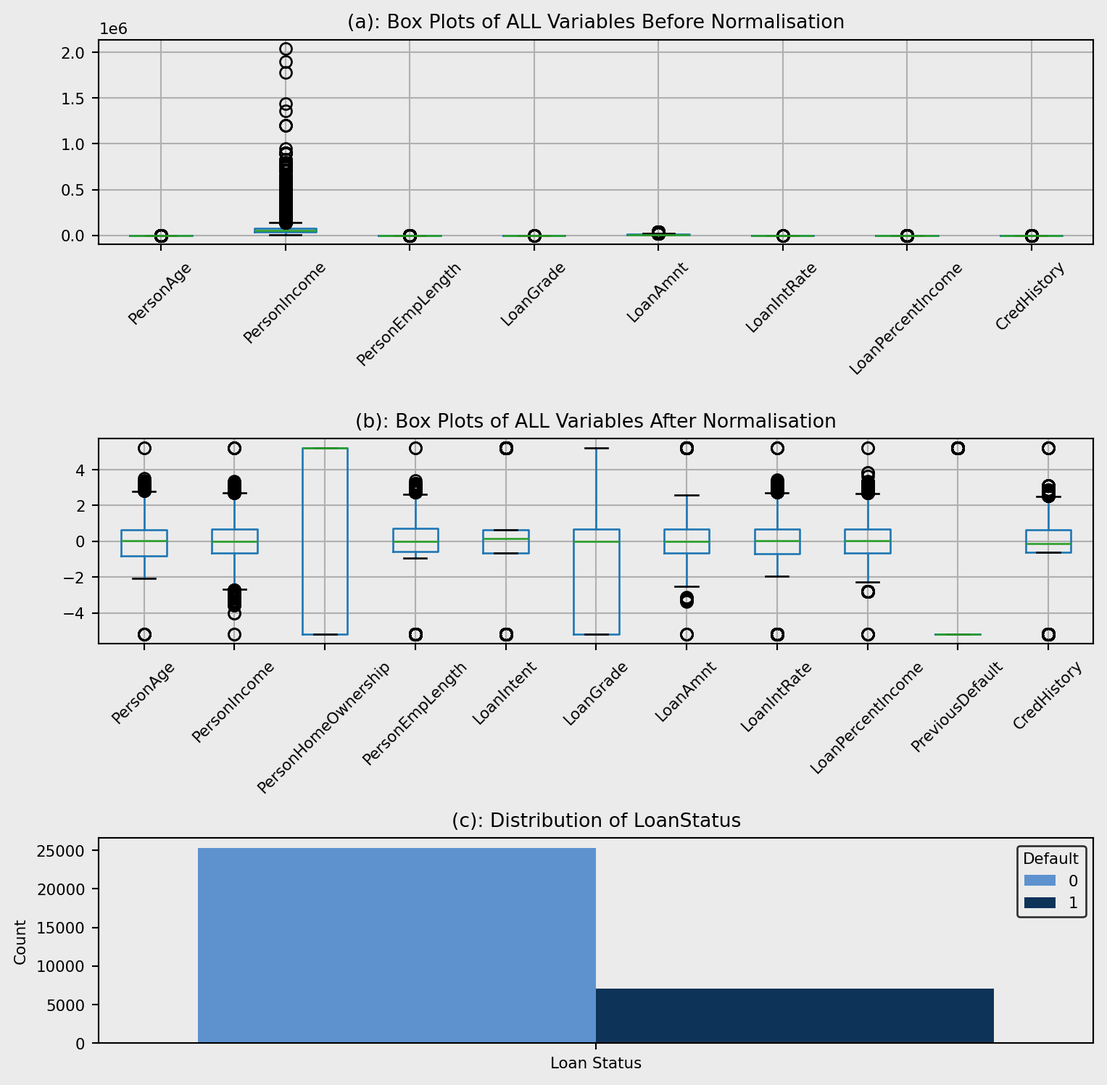
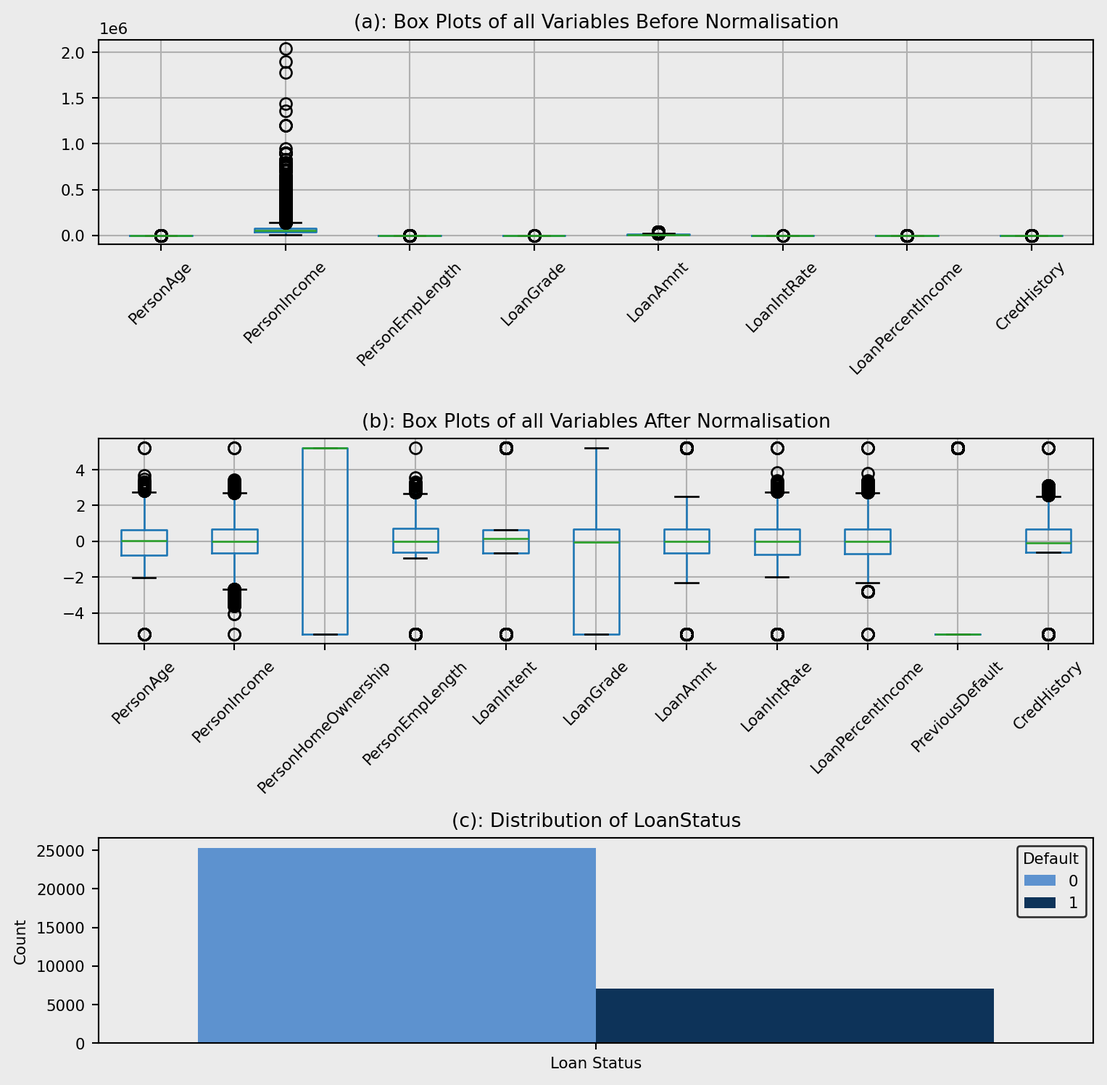
final commiting - final edits and changing titles

diff --git a/Project/Outputs/Blog.html b/Project/Outputs/Blog.html
@@ -96,10 +96,10 @@ div.csl-indent {
   <li><a href="#why-predicting-defaults-matters-more-than-ever" id="toc-why-predicting-defaults-matters-more-than-ever" class="nav-link active" data-scroll-target="#why-predicting-defaults-matters-more-than-ever"><strong>1. Why Predicting Defaults Matters More Than Ever</strong></a></li>
   <li><a href="#exploring-risk-from-patterns-to-causal-effects" id="toc-exploring-risk-from-patterns-to-causal-effects" class="nav-link" data-scroll-target="#exploring-risk-from-patterns-to-causal-effects"><strong>2. Exploring Risk: From Patterns to Causal Effects</strong></a>
   <ul class="collapse">
-  <li><a href="#preparing-the-data-and-descriptive-statistics" id="toc-preparing-the-data-and-descriptive-statistics" class="nav-link" data-scroll-target="#preparing-the-data-and-descriptive-statistics"><strong>2.1 Preparing the Data and Descriptive Statistics</strong></a></li>
-  <li><a href="#distribution-analysis" id="toc-distribution-analysis" class="nav-link" data-scroll-target="#distribution-analysis"><strong>2.2 Distribution Analysis</strong></a></li>
-  <li><a href="#correlation-and-multicollinearity-analysis" id="toc-correlation-and-multicollinearity-analysis" class="nav-link" data-scroll-target="#correlation-and-multicollinearity-analysis"><strong>2.3 Correlation and Multicollinearity Analysis</strong></a></li>
-  <li><a href="#causal-analysis" id="toc-causal-analysis" class="nav-link" data-scroll-target="#causal-analysis"><strong>2.4 Causal Analysis</strong></a></li>
+  <li><a href="#getting-to-know-the-data-patterns-quality-and-first-impressions" id="toc-getting-to-know-the-data-patterns-quality-and-first-impressions" class="nav-link" data-scroll-target="#getting-to-know-the-data-patterns-quality-and-first-impressions"><strong>2.1 Getting to Know the Data: Patterns, Quality, and First Impressions</strong></a></li>
+  <li><a href="#how-the-data-behaves-exploring-distributions" id="toc-how-the-data-behaves-exploring-distributions" class="nav-link" data-scroll-target="#how-the-data-behaves-exploring-distributions"><strong>2.2 How the Data Behaves: Exploring Distributions</strong></a></li>
+  <li><a href="#detecting-relationships-and-multicollinearity-among-variables" id="toc-detecting-relationships-and-multicollinearity-among-variables" class="nav-link" data-scroll-target="#detecting-relationships-and-multicollinearity-among-variables"><strong>2.3 Detecting Relationships and Multicollinearity Among Variables</strong></a></li>
+  <li><a href="#moving-beyond-correlation-searching-for-causality" id="toc-moving-beyond-correlation-searching-for-causality" class="nav-link" data-scroll-target="#moving-beyond-correlation-searching-for-causality"><strong>2.4 Moving Beyond Correlation: Searching for Causality</strong></a></li>
   </ul></li>
   <li><a href="#can-machines-predict-who-defaults" id="toc-can-machines-predict-who-defaults" class="nav-link" data-scroll-target="#can-machines-predict-who-defaults"><strong>3. Can Machines Predict Who Defaults?</strong></a>
   <ul class="collapse">
@@ -135,22 +135,22 @@ div.csl-indent {
 </div>
 <section id="why-predicting-defaults-matters-more-than-ever" class="level2">
 <h2 class="anchored" data-anchor-id="why-predicting-defaults-matters-more-than-ever"><strong>1. Why Predicting Defaults Matters More Than Ever</strong></h2>
-<p>Access to credit plays a big role in helping people grow businesses, buy property, or manage unexpected costs. But from the lender’s side, it comes with risk. If a borrower defaults, it can lead to major losses. That’s why being able to accurately predict who’s likely to default is so important. Traditional credit scoring has been the standard, but more recently, machine learning (ML) has shown it can do a better job at making these kinds of predictions <span class="citation" data-cites="Yang:2024">(<a href="#ref-Yang:2024" role="doc-biblioref">Yang, 2024</a>)</span>.</p>
-<p>This project uses real-world loan data to compare the performance of three models: Logistic Regression (LR), Random Forest (RF), and XGBoost. Each model is tested using accuracy, precision, recall, F1-score, and AUC (Area under the curve). These metrics help assess how well the models identify defaulters and how reliable their predictions are overall <span class="citation" data-cites="Saito:2015">(<a href="#ref-Saito:2015" role="doc-biblioref">Saito &amp; Rehmsmeier, 2015</a>)</span>.</p>
+<p>Access to credit plays a big role in helping people grow businesses, buy property, or manage unexpected costs. But from the lender’s side, it comes with risk. If a borrower defaults, it can lead to major losses. That’s why being able to accurately predict who’s likely to default is so important. Traditional credit scoring has been the standard, but more recently, machine learning (ML) has shown it can do a better job at making these types of predictions <span class="citation" data-cites="Yang:2024">(<a href="#ref-Yang:2024" role="doc-biblioref">Yang, 2024</a>)</span>.</p>
+<p>This project uses real-world loan data to compare the performance of three models: Logistic Regression (LR), Random Forest (RF), and XGBoost. Each model is tested using accuracy, precision, recall, F1-score, and area under the curve (AUC). These metrics help assess how well the models identify defaulters and how reliable their predictions are overall <span class="citation" data-cites="Saito:2015">(<a href="#ref-Saito:2015" role="doc-biblioref">Saito &amp; Rehmsmeier, 2015</a>)</span>.</p>
 <p>The project also looks at fairness across different borrower groups to see if the models are biased towards or against certain types of applicants. Combining ML with causal analysis, it aims to give a deeper, more balanced view of credit risk prediction.</p>
 <hr style="width: 150px; border: none; height: 4px; background-color:rgb(45,62,81,255); margin: auto;">
 </section>
 <section id="exploring-risk-from-patterns-to-causal-effects" class="level2">
 <h2 class="anchored" data-anchor-id="exploring-risk-from-patterns-to-causal-effects"><strong>2. Exploring Risk: From Patterns to Causal Effects</strong></h2>
 <p>Prior to conducting the analysis of credit risk, we need to understand and organise the data. For this analysis we will be using a loan defaulting dataset from Kaggle <span class="citation" data-cites="Tse:2020">(<a href="#ref-Tse:2020" role="doc-biblioref">Tse, 2020</a>)</span>, consisting of 12 variables/columns and 32580 observations, illustrated in Table 1.</p>
-<section id="preparing-the-data-and-descriptive-statistics" class="level3">
-<h3 class="anchored" data-anchor-id="preparing-the-data-and-descriptive-statistics"><strong>2.1 Preparing the Data and Descriptive Statistics</strong></h3>
+<section id="getting-to-know-the-data-patterns-quality-and-first-impressions" class="level3">
+<h3 class="anchored" data-anchor-id="getting-to-know-the-data-patterns-quality-and-first-impressions"><strong>2.1 Getting to Know the Data: Patterns, Quality, and First Impressions</strong></h3>
 <div class="tabset-margin-container"></div><div class="panel-tabset">
 <ul class="nav nav-tabs" role="tablist"><li class="nav-item" role="presentation"><a class="nav-link active" id="tabset-1-1-tab" data-bs-toggle="tab" data-bs-target="#tabset-1-1" role="tab" aria-controls="tabset-1-1" aria-selected="true" href="">2.1.1 Variable Information</a></li><li class="nav-item" role="presentation"><a class="nav-link" id="tabset-1-2-tab" data-bs-toggle="tab" data-bs-target="#tabset-1-2" role="tab" aria-controls="tabset-1-2" aria-selected="false" href="">2.1.2 Summary Statistics</a></li></ul>
 <div class="tab-content">
 <div id="tabset-1-1" class="tab-pane active" role="tabpanel" aria-labelledby="tabset-1-1-tab">
 <div class="cell" data-execution_count="7">
-<div class="cell-output cell-output-display" data-execution_count="73">
+<div class="cell-output cell-output-display" data-execution_count="29">
 <table class="dataframe table table-striped table-hover caption-top table-sm small" data-quarto-postprocess="true" data-border="1">
 <caption>Table 1: Variable Information</caption>
 <thead>
@@ -241,7 +241,7 @@ div.csl-indent {
 </div>
 <div id="tabset-1-2" class="tab-pane" role="tabpanel" aria-labelledby="tabset-1-2-tab">
 <div class="cell" data-execution_count="8">
-<div class="cell-output cell-output-display" data-execution_count="74">
+<div class="cell-output cell-output-display" data-execution_count="30">
 <table class="dataframe table table-striped table-hover caption-top table-sm small" data-quarto-postprocess="true" data-border="1">
 <caption>Table 2: Summary Statistics</caption>
 <thead>
@@ -374,11 +374,11 @@ div.csl-indent {
 <p>Table 1 and 2 display missing values and summary statistics for all variables. Only <em>PersonEmpLength</em> and <em>LoanIntRate</em> had missing values, with 887 and 3095, respectively. To maintain sample size and address skew, median imputation was used for <em>PersonEmpLength</em>, while <em>LoanIntRate</em>, highly correlated with <em>LoanGrade</em> (see Figure 5), was imputed using regression. Duplicate rows were also removed, reducing the dataset to 32415 observations. Additionally, implausible maximum values for <em>PersonAge</em> and <em>PersonEmpLength</em> (144 and 123) were treated as errors and removed. After filtering, the adjusted maximum values were 94 for <em>PersonAge</em> and 41 for <em>PersonEmpLength</em>, ensuring data integrity.</p>
 <hr style="width: 150px; border: none; height: 4px; background-color:rgb(45,62,81,255); margin: auto;">
 </section>
-<section id="distribution-analysis" class="level3">
-<h3 class="anchored" data-anchor-id="distribution-analysis"><strong>2.2 Distribution Analysis</strong></h3>
+<section id="how-the-data-behaves-exploring-distributions" class="level3">
+<h3 class="anchored" data-anchor-id="how-the-data-behaves-exploring-distributions"><strong>2.2 How the Data Behaves: Exploring Distributions</strong></h3>
 <div id="cell-fig-dist" class="cell" data-execution_count="9">
 <div class="cell-output cell-output-display">
-<div id="fig-dist" class="quarto-float quarto-figure quarto-figure-center anchored" data-fig-align="center" data-fig-pos="H">
+<div id="fig-dist" class="quarto-float quarto-figure quarto-figure-center anchored" data-fig-pos="H" data-fig-align="center">
 <figure class="quarto-float quarto-float-fig figure">
 <div aria-describedby="fig-dist-caption-0ceaefa1-69ba-4598-a22c-09a6ac19f8ca">
 <img src="Blog_files/figure-html/fig-dist-output-1.png" class="quarto-figure quarto-figure-center figure-img" data-fig-pos="H" width="762" height="764">
@@ -405,12 +405,12 @@ Figure&nbsp;2: Data Preparation Overview
 </div>
 </div>
 </div>
-<p>Figure 2(a) shows that the data isn’t scaled proportionally, therefore we need to apply a scaling technique. Due to the skewness of all the variables quantile transformation was deployed, normalised data is shown in Figure 2 (b). The plot shows outliers, however there is no reason for these to be errors meaning they will not be removed. For example, the reason for outliers in <em>PersonIncome</em> is due to people earning considerably more than average.</p>
+<p>Figure 2(a) shows that the data isn’t scaled proportionally, therefore we need to apply a scaling technique. Due to the skewness of all the variables quantile transformation was deployed with normalised data shown in Figure 2 (b). The plot shows outliers, however there is no reason for these to be errors meaning they will not be removed. For example, the reason for outliers in <em>PersonIncome</em> is due to people earning considerably more than average.</p>
 <p>Figure 2(c) demonstrates the distribution of <em>LoanStatus</em> within the dataset. This can cause large impacts on the ML models deployed in the analysis, leading to skewed performance metrics as the models will predict the majority class with high accuracy but the minority class with lower accuracy. To circumvent this issue, I implemented class weighting within my ML models.</p>
 <hr style="width: 150px; border: none; height: 4px; background-color:rgb(45,62,81,255); margin: auto;">
 </section>
-<section id="correlation-and-multicollinearity-analysis" class="level3">
-<h3 class="anchored" data-anchor-id="correlation-and-multicollinearity-analysis"><strong>2.3 Correlation and Multicollinearity Analysis</strong></h3>
+<section id="detecting-relationships-and-multicollinearity-among-variables" class="level3">
+<h3 class="anchored" data-anchor-id="detecting-relationships-and-multicollinearity-among-variables"><strong>2.3 Detecting Relationships and Multicollinearity Among Variables</strong></h3>
 <div id="cell-fig-Corr-Multi" class="cell" data-execution_count="12">
 <div class="cell-output cell-output-display">
 <div id="fig-corr-multi" class="quarto-float quarto-figure quarto-figure-center anchored">
@@ -425,13 +425,13 @@ Figure&nbsp;3: Correlation and Multicollinearity Analysis
 </div>
 </div>
 </div>
-<p>Figure 3(a) shows a correlation plot quantifying the relationships between the variables and the target <em>LoanStatus</em>. <em>LoanGrade</em> and <em>LoanIntRate</em> have a high correlation coefficient (r = 0.95), indicating that they are highly correlated. Also, a similar relationship is shown between <em>PersonAge</em> and <em>CredHistory</em> (r = 0.81). These patterns are expected, older borrowers tend to have longer credit histories, and higher loan grades are typically associated with higher interest rates. While such correlations suggest potential multicollinearity, further assessment using variance inflation factors (VIF) is required.</p>
+<p>Figure 3(a) shows a correlation plot quantifying the relationships between the variables and the target <em>LoanStatus</em>. <em>LoanGrade</em> and <em>LoanIntRate</em> have a high correlation coefficient (r = 0.95), indicating that they are highly correlated. Also, a similar relationship is shown between <em>PersonAge</em> and <em>CredHistory</em> (r = 0.81). These patterns are expected, older borrowers tend to have longer credit histories, and higher loan grades are typically associated with higher interest rates. While these correlations suggest potential multicollinearity, further assessment using variance inflation factors (VIF) is required.</p>
 <p>VIF values for all the variables are shown in Figure 3(b). In contrast to Figure 3(a), <em>LoanGrade</em>, <em>LoanIntRate</em>, <em>PersonAge</em>, and <em>CredHistory</em> have low VIF values, indicating low levels of multicollinearity. However, <em>LoanAmnt</em>, <em>LoanPercentIncome</em> and <em>PersonIncome</em> have VIF values greater than 10 which indicates multicollinearity and actions need to be taken to ensure they don’t affect the models. For the logistic regression, L1 and L2 regularisation was deployed to reduce the effects of multicollinearity. Other models are tree-based and handle multicollinearity, therefore no further processing is needed.</p>
 <hr style="width: 150px; border: none; height: 4px; background-color:rgb(45,62,81,255); margin: auto;">
 </section>
-<section id="causal-analysis" class="level3">
-<h3 class="anchored" data-anchor-id="causal-analysis"><strong>2.4 Causal Analysis</strong></h3>
-<p>This section explores the heterogeneous impact of <em>PreviousDefault</em> on the likelihood of defaulting again, using a causal forest framework. <em>PreviousDefault</em> was used within this analysis as <span class="citation" data-cites="Hand_D_J_Henley_W_E:1997">Hand, D. J., &amp; Henley, W. E. (<a href="#ref-Hand_D_J_Henley_W_E:1997" role="doc-biblioref">1997</a>)</span> observed past defaulting status has a strong association with future loan defaults. By estimating Conditional Average Treatment Effects (CATEs), we can observe how the effect of previous default varies across individual borrower profiles.</p>
+<section id="moving-beyond-correlation-searching-for-causality" class="level3">
+<h3 class="anchored" data-anchor-id="moving-beyond-correlation-searching-for-causality"><strong>2.4 Moving Beyond Correlation: Searching for Causality</strong></h3>
+<p>This section explores the heterogeneous impact of <em>PreviousDefault</em> on the likelihood of defaulting again, using a causal forest framework. <em>PreviousDefault</em> was used within this analysis as <span class="citation" data-cites="Hand_D_J_Henley_W_E:1997">Hand, D. J., &amp; Henley, W. E. (<a href="#ref-Hand_D_J_Henley_W_E:1997" role="doc-biblioref">1997</a>)</span> observed past defaulting status has a strong association with future loan defaults. By estimating conditional average treatment effects (CATEs), we can observe how the effect of previous default varies across individual borrower profiles.</p>
 <div id="cell-fig-causal_a" class="cell" data-execution_count="13">
 <div class="cell-output cell-output-display">
 <div id="fig-causal_a" class="quarto-float quarto-figure quarto-figure-center anchored">
@@ -446,7 +446,7 @@ Figure&nbsp;4: Estimated Treatment Effects (CATE) for Previous Default
 </div>
 </div>
 </div>
-<p>Figure 4 shows estimated CATEs, revealing a negatively-skewed distribution with most values centred near zero. This suggests that, for the majority of borrowers, previous default status has a marginal effect on the likelihood of defaulting again. However, a distinct subgroup exhibits significantly higher CATEs, indicating a substantially increased default risk following a previous default. These individuals may represent vulnerable borrowers, for whom financial distress is a strong predictor of future behaviour. The long right tail emphasizes the importance of heterogeneity in treatment effects and justifies the use of a causal forest over average-effect models.</p>
+<p>Figure 4 shows estimated CATEs, revealing a negatively-skewed distribution with most values centred near zero. This suggests that, for the majority of borrowers, previous default status has a marginal effect on the likelihood of defaulting again. However, a distinct subgroup exhibits significantly higher CATEs, indicating a substantially increased default risk following a previous default. These individuals may represent vulnerable borrowers, for whom financial distress is a strong predictor of future behaviour. The long right tail emphasises the importance of heterogeneity in treatment effects and justifies the use of a causal forest over average-effect models.</p>
 <hr style="width: 150px; border: none; height: 4px; background-color:rgb(45,62,81,255); margin: auto;">
 </section>
 </section>
@@ -469,15 +469,15 @@ Figure&nbsp;4: Estimated Treatment Effects (CATE) for Previous Default
 <img src="Blog_files/figure-html/fig-lr-vis-output-1.png" width="717" height="590" class="figure-img">
 </div>
 <figcaption class="quarto-float-caption-bottom quarto-float-caption quarto-float-fig" id="fig-lr-vis-caption-0ceaefa1-69ba-4598-a22c-09a6ac19f8ca">
-Figure&nbsp;5: Logistic Regression Model Visualizations
+Figure&nbsp;5: Logistic Regression Model Visualisations
 </figcaption>
 </figure>
 </div>
 </div>
 </div>
 <p>Figure 5(a) shows the ROC curve for the LR model, an indication of the trade-off between sensitivity and specificity of the model. The model achieved an AUC score of 0.841, regarded as considerable <span class="citation" data-cites="Corbacioglu:2023">(<a href="#ref-Corbacioglu:2023" role="doc-biblioref">Çorbacıoğlu &amp; Aksel, 2023</a>)</span>, indicating solid predictive performance when distinguishing between positive outcomes. The model’s curve lies well above the diagonal reference line (AUC = 0.5), which represents random classification, demonstrating its predictive applications. However, the graph shows room for improvement due to the true positive rate (TPR) remaining below 0.9.</p>
-<p>Figure 5(b) visualises the error within the classification model. The matrix reveals that the model correctly identified 3756 non-default cases (true negatives) and 1128 default cases (true positives), demonstrating its ability to capture both classes effectively. However, 1293 non-default cases were misclassified as defaults (false positives), while 305 defaulters were missed (false negatives), which could result in financial loss for lenders.</p>
-<p>Figure 5(c) shows the odds ratios for the LR model. The odds ratio indicates the increase in the risk of defaulting for a one-unit increase in that variable and allows for an easy interpretation of the relationships between the individual features and credit risk. The results indicate that <em>LoanIntRate</em> and <em>LoanPercentIncome</em> have the strongest positive associations with default, with odds ratios of 2.788 and 2.244, respectively. This suggests that as interest rates or the proportion of income allocated to the loan increases, the likelihood of default rises significantly. Conversely, <em>PersonIncome</em> has an odds ratio of 0.601, indicates that higher income lowers default probability, consistent with economic expectations.</p>
+<p>Figure 5(b) visualises the error within the classification model. The matrix reveals that the model correctly identified 3764 non-default cases (true negatives) and 1128 default cases (true positives), demonstrating its ability to capture both classes effectively. However, 1285 non-default cases were misclassified as defaults (false positives), while 305 defaulters were missed (false negatives), which could result in financial loss for lenders.</p>
+<p>Figure 5(c) shows the odds ratios for the LR model. The odds ratio indicates the increase in the risk of defaulting for a one-unit increase in that variable and allows for an easy interpretation of the relationships between the individual features and credit risk. The results indicate that <em>LoanIntRate</em> and <em>LoanPercentIncome</em> have the strongest positive associations with default, with odds ratios of 2.766 and 2.432, respectively. This suggests that as interest rates or the proportion of income allocated to the loan increases, the likelihood of default rises significantly. Conversely, <em>PersonIncome</em> has an odds ratio of 0.653, indicating that higher income lowers default probability, consistent with economic expectations.</p>
 </div>
 <div id="tabset-2-2" class="tab-pane" role="tabpanel" aria-labelledby="tabset-2-2-tab">
 <p>The second model that was developed and compared with the LR model was an RF, trained on all the standard variables, as they have been shown to have superior performance than LR models <span class="citation" data-cites="Couronne:2018">(<a href="#ref-Couronne:2018" role="doc-biblioref">Couronné et al., 2018</a>)</span>.</p>
@@ -489,14 +489,14 @@ Figure&nbsp;5: Logistic Regression Model Visualizations
 <img src="Blog_files/figure-html/fig-rf-vis-output-1.png" width="717" height="565" class="figure-img">
 </div>
 <figcaption class="quarto-float-caption-bottom quarto-float-caption quarto-float-fig" id="fig-rf-vis-caption-0ceaefa1-69ba-4598-a22c-09a6ac19f8ca">
-Figure&nbsp;6: Random Forest Model Visualizations
+Figure&nbsp;6: Random Forest Model Visualisations
 </figcaption>
 </figure>
 </div>
 </div>
 </div>
-<p>The ROC curve, illustrated in Figure 6(a), showcases its improved classification ability in distinguishing between cases and can be compared to LRs. The model achieved a excellent AUC of 0.928 <span class="citation" data-cites="Corbacioglu:2023">(<a href="#ref-Corbacioglu:2023" role="doc-biblioref">Çorbacıoğlu &amp; Aksel, 2023</a>)</span>, indicating strong predictive capability and shows that more complex models have the potential to improve credit risk prediction, however highly accurate performance may indicate overfitting.</p>
-<p>The confusion matrix (Figure 6(b)) provides a detailed comparison of actual versus predicted default status. In this case, the model correctly predicted non-default for 4990 instances (True Negatives), and correctly identified defaulting for 991 instances (True Positives). However, there were 59 false positives, where the model incorrectly predicted defaulting when the actual class was non-default, and 442 false negatives. This confusion matrix reiterates the improved performance from the LR as the incorrect classification instances have decreased.</p>
+<p>The ROC curve, illustrated in Figure 6(a), showcases its improved classification ability in distinguishing between cases and can be compared to LRs. The model achieved a excellent AUC of 0.927 <span class="citation" data-cites="Corbacioglu:2023">(<a href="#ref-Corbacioglu:2023" role="doc-biblioref">Çorbacıoğlu &amp; Aksel, 2023</a>)</span>, indicating strong predictive capability and shows that more complex models have the potential to improve credit risk prediction, however highly accurate performance may indicate overfitting.</p>
+<p>The confusion matrix (Figure 6(b)) provides a detailed comparison of actual versus predicted default status. In this case, the model correctly predicted non-default for 4996 instances (True Negatives), and correctly identified defaulting for 988 instances (True Positives). However, there were 53 false positives, where the model incorrectly predicted defaulting when the actual class was non-default, and 445 false negatives. This confusion matrix reiterates the improved performance from the LR as the incorrect classification instances have decreased.</p>
 <p>Figure 6(c) demonstrates the most influential features when predicting credit risk by visualising feature importance calculated using mean decrease in accuracy. <em>LoanIntRate</em> is the most important feature suggesting that the proportion of income allocated to a loan has the strongest impact on the model’s predictions, supporting the conclusions from the LR which ranked it second. <em>LoanPercentIncome</em> and <em>PersonIncome</em> are also shown to be within the top 3 most important features as they are in the LR model. Conversely, to the LR, the RF shows <em>LoanGrade</em> to have high importance whereas Figure 8 shows it to have very little impact on credit risk for the LR model, potentially attributed to the differences in model architecture.</p>
 </div>
 <div id="tabset-2-3" class="tab-pane" role="tabpanel" aria-labelledby="tabset-2-3-tab">
@@ -509,14 +509,14 @@ Figure&nbsp;6: Random Forest Model Visualizations
 <img src="Blog_files/figure-html/fig-xgb-vis-output-1.png" width="717" height="562" class="figure-img">
 </div>
 <figcaption class="quarto-float-caption-bottom quarto-float-caption quarto-float-fig" id="fig-xgb-vis-caption-0ceaefa1-69ba-4598-a22c-09a6ac19f8ca">
-Figure&nbsp;7: XGBoost Model Visualizations
+Figure&nbsp;7: XGBoost Model Visualisations
 </figcaption>
 </figure>
 </div>
 </div>
 </div>
-<p>Figure 7(a) visualises the performance of the XGBoost in classifying positive outcomes. This model achieves a slightly higher AUC score than the RF (AUC = 0.944), demonstrating excellent predictive performance <span class="citation" data-cites="Corbacioglu:2023">(<a href="#ref-Corbacioglu:2023" role="doc-biblioref">Çorbacıoğlu &amp; Aksel, 2023</a>)</span>. Its built-in regularisation, max_depth, min_child_weight, and L1/L2 regularisation, reduces the risk of overfitting despite its complexity.</p>
-<p>Figure 7(b) reiterates the increased performance of the XGBoost. XGBoost predicts 36 more true positives than the RF, indicating better sensitivity avoiding potentially revenue losses due to defaulting. The model also has 3 fewer false positives, meaning it incorrectly predicts fewer non-defaulters as defaulters.</p>
+<p>Figure 7(a) visualises the performance of the XGBoost in classifying positive outcomes. This model achieves a slightly higher AUC score than the RF (AUC = 0.943), demonstrating excellent predictive performance <span class="citation" data-cites="Corbacioglu:2023">(<a href="#ref-Corbacioglu:2023" role="doc-biblioref">Çorbacıoğlu &amp; Aksel, 2023</a>)</span>. Its built-in regularisation, max_depth, min_child_weight, and L1/L2 regularisation, reduces the risk of overfitting despite its complexity.</p>
+<p>Figure 7(b) reiterates the increased performance of the XGBoost. XGBoost predicts 41 more true positives than the RF, indicating better sensitivity avoiding potentially revenue losses due to defaulting. The model also has 9 fewer false positives, meaning it incorrectly predicts fewer non-defaulters as defaulters.</p>
 <p>Figure 7(c) contradicts the other models (LR and RF), as these models predicted <em>LoanPercentIncome</em> to have less of an impact on the predictions than the XGBoost model. However, similar to the RF and LR model, the XGBoost placed high importance on <em>PersonHomeOwnership</em> reinforcing the notion that the proportion of income allocated to a loan significantly impacts the risk of defaulting. However, <em>LoanGrade</em> ranks higher than in the RF and LR, indicating that home ownership status may play a larger role in how XGBoosts evaluates credit risk.</p>
 </div>
 </div>
@@ -539,16 +539,16 @@ Figure&nbsp;8: Model Evaluation and Comparisons
 </div>
 </div>
 </div>
-<p>Figure 8(a) shows that XGBoost (0.928) achieves the highest accuracy, closely followed by Random Forest (0.923), while Logistic Regression lags (0.753). However, accuracy alone can be misleading in imbalanced classification tasks such as credit scoring, where minimizing the cost of misclassifying defaulters is critical (Hand &amp; Henley, 1997)</p>
-<p>Figure 8(b) highlights XGBoost’s overall strength, with the highest AUC (0.944), strong sensitivity (0.717), and F1 score (0.814). RF performs similarly, though with slightly lower recall. LR underperforms across most metrics except sensitivity (0.787) however, precision (0.466) is lacking reducing the applications of this model. Also LR has, the highest log loss (8.886), suggesting poorer probability calibration.</p>
-<p>In credit risk analysis, recall is critical. Missing a default is costlier than a false alarm (Hand &amp; Henley, 1997). While LR has competitive recall, XGBoost offers a better balance between recall, precision, and overall performance.</p>
-<p>Table 8(c) shows LR focuses on income-related variables, suggesting linear assumptions. Tree-based models prioritize features like LoanGrade and HomeOwnership, capturing non-linear interactions more effectively <span class="citation" data-cites="Zhou:2002">(<a href="#ref-Zhou:2002" role="doc-biblioref">Zhou et al., 2002</a>)</span>, making them more suited to complex credit risk tasks.</p>
+<p>Figure 8(a) shows that XGBoost (0.928) achieves the highest accuracy, closely followed by RF (0.923), while LR lags behind (0.755). However, accuracy alone can be misleading in imbalanced classification tasks such as credit scoring, where minimising the cost of misclassifying defaulters is critical <span class="citation" data-cites="Hand_D_J_Henley_W_E:1997">(<a href="#ref-Hand_D_J_Henley_W_E:1997" role="doc-biblioref">Hand, D. J., &amp; Henley, W. E., 1997</a>)</span>.</p>
+<p>Figure 8(b) highlights XGBoost’s overall strength, with the highest AUC (0.943), strong sensitivity (0.718), and F1 score (0.815). RF performs similarly, though with slightly lower recall. LR underperforms across most metrics except sensitivity (0.787) however, precision (0.467) is lacking reducing the applications of this model. Also, LR has the highest log loss (8.841), suggesting poorer probability calibration.</p>
+<p>In credit risk analysis, recall is critical. Missing a default is costlier than a false alarm <span class="citation" data-cites="Hand_D_J_Henley_W_E:1997">(<a href="#ref-Hand_D_J_Henley_W_E:1997" role="doc-biblioref">Hand, D. J., &amp; Henley, W. E., 1997</a>)</span>. While LR has competitive recall, XGBoost offers a better balance between recall, precision, and overall performance.</p>
+<p>Table 8(c) shows LR focuses on income-related variables, suggesting linear assumptions. Tree-based models prioritise features like LoanGrade and HomeOwnership, capturing non-linear interactions more effectively <span class="citation" data-cites="Zhou:2002">(<a href="#ref-Zhou:2002" role="doc-biblioref">Zhou et al., 2002</a>)</span>, making them more suited to complex credit risk tasks.</p>
 <hr style="width: 150px; border: none; height: 4px; background-color:rgb(45,62,81,255); margin: auto;">
 </section>
 <section id="who-gets-a-fair-deal-auditing-xgboosts-default-predictions" class="level3">
 <h3 class="anchored" data-anchor-id="who-gets-a-fair-deal-auditing-xgboosts-default-predictions"><strong>3.3 Who Gets a Fair Deal? Auditing XGBoost’s Default Predictions</strong></h3>
 <div class="cell" data-execution_count="22">
-<div class="cell-output cell-output-display" data-execution_count="88">
+<div class="cell-output cell-output-display" data-execution_count="44">
 <table class="dataframe caption-top table table-sm table-striped small" data-quarto-postprocess="true" data-border="1">
 <caption>Table 3: Fairness Audit</caption>
 <thead>
@@ -562,33 +562,33 @@ Figure&nbsp;8: Model Evaluation and Comparisons
 <tbody>
 <tr class="odd">
 <td>Low Income</td>
-<td>0.913</td>
-<td>0.765</td>
-<td>0.845</td>
+<td>0.916</td>
+<td>0.768</td>
+<td>0.850</td>
 </tr>
 <tr class="even">
 <td>High Income</td>
-<td>0.943</td>
-<td>0.605</td>
-<td>0.737</td>
+<td>0.940</td>
+<td>0.602</td>
+<td>0.728</td>
 </tr>
 <tr class="odd">
 <td>Young (&lt; median age)</td>
-<td>0.928</td>
-<td>0.741</td>
-<td>0.831</td>
+<td>0.927</td>
+<td>0.735</td>
+<td>0.828</td>
 </tr>
 <tr class="even">
 <td>Old (≥ median age)</td>
-<td>0.928</td>
-<td>0.693</td>
-<td>0.798</td>
+<td>0.929</td>
+<td>0.701</td>
+<td>0.802</td>
 </tr>
 <tr class="odd">
 <td>Renters</td>
 <td>0.929</td>
-<td>0.812</td>
-<td>0.878</td>
+<td>0.811</td>
+<td>0.877</td>
 </tr>
 <tr class="even">
 <td>Homeowners</td>
@@ -598,30 +598,30 @@ Figure&nbsp;8: Model Evaluation and Comparisons
 </tr>
 <tr class="odd">
 <td>Mortgage</td>
-<td>0.914</td>
-<td>0.420</td>
-<td>0.566</td>
+<td>0.916</td>
+<td>0.429</td>
+<td>0.575</td>
 </tr>
 </tbody>
 </table>
 </div>
 </div>
-<p>The fairness audit of the XGBoost model highlights clear differences in recall across borrower subgroups. While overall accuracy remains high, recall is substantially lower for high-income (0.605) and mortgage (0.42) groups, suggesting the model is less effective at flagging defaulters in these categories. In contrast, renters (0.812) and homeowners (0.839) benefit from stronger sensitivity. These gaps may reflect imbalanced data or overlapping traits that obscure risk signals. For instance, mortgagers may combine stable income with high debt, complicating predictions. High-income defaulters may also be underrepresented, reducing model focus. Addressing these differences through subgroup-aware tuning or fairness constraints can improve equity in credit assessments.</p>
+<p>The fairness audit of the XGBoost model highlights clear differences in recall across borrower subgroups. While overall accuracy remains high, recall is substantially lower for high-income (0.602) and mortgage (0.429) groups, suggesting the model is less effective at flagging defaulters in these categories. In contrast, renters (0.811) and homeowners (0.839) benefit from stronger sensitivity. These gaps may reflect imbalanced data or overlapping traits that obscure risk signals. For instance, mortgagers may combine stable income with high debt, complicating predictions. High-income defaulters may also be underrepresented, reducing model focus. Addressing these differences through subgroup-aware tuning or fairness constraints can improve equity in credit assessments.</p>
 <hr style="width: 150px; border: none; height: 4px; background-color:rgb(45,62,81,255); margin: auto;">
 </section>
 <section id="from-models-to-meaning-what-we-can-learn" class="level3">
 <h3 class="anchored" data-anchor-id="from-models-to-meaning-what-we-can-learn"><strong>3.4 From Models to Meaning: What We Can Learn</strong></h3>
-<p>This project showed that ensemble learning models like XGBoost and Random Forest can significantly improve how we assess credit risk. Unlike traditional approaches, these models pick up on complex, non-linear relationships in financial data and handle imbalanced datasets much better <span class="citation" data-cites="Chopra:2018">(<a href="#ref-Chopra:2018" role="doc-biblioref">Chopra &amp; Bhilare, 2018</a>)</span>. Features such as <em>LoanGrade</em>, <em>LoanPercentIncome</em>, and <em>PersonIncome</em> emerged as key predictors, helping lenders make more accurate decisions, reduce misclassifications, and ultimately lower default rates.</p>
+<p>This project showed that ensemble learning models like XGBoost and RF can significantly improve how we assess credit risk. Unlike traditional approaches, these models pick up on complex, non-linear relationships in financial data and handle imbalanced datasets much better <span class="citation" data-cites="Chopra:2018">(<a href="#ref-Chopra:2018" role="doc-biblioref">Chopra &amp; Bhilare, 2018</a>)</span>. Features such as <em>LoanGrade</em>, <em>LoanPercentIncome</em>, and <em>PersonIncome</em> emerged as key predictors, helping lenders make more accurate decisions, reduce misclassifications, and ultimately lower default rates.</p>
 <p>However, there are trade-offs. These models are harder to interpret, which can be a challenge in regulated sectors where transparency is important <span class="citation" data-cites="Rudin:2019">(<a href="#ref-Rudin:2019" role="doc-biblioref">Rudin, 2019</a>)</span>. They also demand more computational power, which might limit access for smaller institutions <span class="citation" data-cites="Lei:2025">(<a href="#ref-Lei:2025" role="doc-biblioref">Lei, 2025</a>)</span>. Without proper tuning, they can overfit on skewed data <span class="citation" data-cites="Cheng:2021">(<a href="#ref-Cheng:2021" role="doc-biblioref">Cheng et al., 2021</a>)</span>. There’s also the risk of reinforcing biases present in the training data, potentially leading to unfair outcomes in lending <span class="citation" data-cites="Shah:2025">(<a href="#ref-Shah:2025" role="doc-biblioref">Shah &amp; Davis, 2025</a>)</span>. Moving forward, improving explainability, tuning, and fairness will be essential for making these models more practical and trustworthy.</p>
 <hr style="width: 150px; border: none; height: 4px; background-color:rgb(45,62,81,255); margin: auto;">
 </section>
 </section>
 <section id="key-takeaways" class="level2">
 <h2 class="anchored" data-anchor-id="key-takeaways"><strong>4. Key Takeaways</strong></h2>
-<p>This project compared the performance of Logistic Regression, Random Forest, and XGBoost in predicting loan defaults. XGBoost came out on top across all metrics, with the highest accuracy (0.928), AUC (0.944), and F1-score (0.814), showing its strength in capturing complex, non-linear patterns in borrower behavior. Random Forest also performed well, though its slightly lower sensitivity suggests it might miss a few more defaulters. Logistic Regression trailed behind, limited by its simpler, linear structure.</p>
+<p>This project compared the performance of LR, RF, and XGBoost in predicting loan defaults. XGBoost came out on top across all metrics, with the highest accuracy (0.928), AUC (0.943), and F1-score (0.815), showing its strength in capturing complex, non-linear patterns in borrower behavior. RF also performed well, though its slightly lower sensitivity suggests it might miss a few more defaulters. LR trailed behind, limited by its simpler, linear structure.</p>
 <p>When looking at what each model focused on, LR leaned heavily on income-based features like PersonIncome and LoanPercentIncome. In contrast, RF and XGBoost picked up broader signals, giving more weight to LoanGrade and PersonHomeOwnership. This suggests that ensemble models offer a more rounded view of credit risk.</p>
-<p>To explore how default risk changes across different borrowers, a causal forest was used to estimate Conditional Average Treatment Effects (CATEs) for PreviousDefault. While most estimates were close to zero, a clear subgroup showed much higher risk, highlighting the value of causal inference in spotting patterns that average models can miss.</p>
-<p>Even the best models have their blind spots. A fairness audit revealed that XGBoost performed unevenly across borrower groups, flagging fewer defaults for some demographics. This reinforces why fairness checks should be built into credit decision systems, to make sure everyone gets a fair shot</p>
+<p>To explore how default risk changes across different borrowers, a causal forest was used to estimate conditional average treatment effects (CATEs) for PreviousDefault. While most estimates were close to zero, a clear subgroup showed much higher risk, highlighting the value of causal inference in spotting patterns that average models can miss.</p>
+<p>Even the best models have their blind spots. A fairness audit revealed that XGBoost performed unevenly across borrower groups, flagging fewer defaults for some demographics. This reinforces why fairness checks should be built into credit decision systems, to make sure everyone gets a fair shot.</p>
 <!-- Back to Top Button -->
 <button onclick="topFunction()" id="backToTopBtn" title="Go to top">
 ↑ Top

diff --git a/README.md b/README.md
@@ -25,18 +25,20 @@ The libraries used in this project are:
 ├── Blog.txt                  # Contains GitHub repo and blog post link
 
 ├── Project/                  # All project content
-│   ├── Blog.qmd              # Main Quarto source file
-│   ├── _quarto.yml           # Quarto config file
-│   ├── _publish.yml          # Quarto publishing config
-│   ├── .gitignore            # Files to ignore in Git
-│   ├── styles.css             # CSS styles for the blog
+│   ├── Blog.qmd                    # Main Quarto source file
+│   ├── _quarto.yml                 # Quarto config file
+│   ├── _publish.yml                # Quarto publishing config
+│   ├── .gitignore                  # Files to ignore in Git
+│   ├── styles.css                  # CSS styles for the blog
 │
 │   ├── Outputs/               # Rendered outputs
-│       └── Blog.html          # Rendered HTML
-│       └── Blog_files/        # Auto-generated HTML assets
-|       └── Images/            # Images used in the project
+│       └── Blog.html               # Rendered HTML
+│       └── Blog_files/             # Auto-generated HTML assets
+|       └── Image/                  # Images used in the project
 │           └── banner.png
-│       └── styles.css         # CSS styles for the blog
+│       └── styles.css              # CSS styles for the blog
+│       └── data/                   # Contains data file used for the download link
+│           └── credit_risk_dataset.csv     # Data file used for the download link
 │
 │   ├── Data/                  # Raw data
 │       └── credit_risk_dataset.csv
@@ -49,6 +51,7 @@ The libraries used in this project are:
 │       └── banner.png
 │       └── github.png
 │       └── linkedin.png
+|       └── dataset.png
 ```
 
 ## How to reproduce the results
